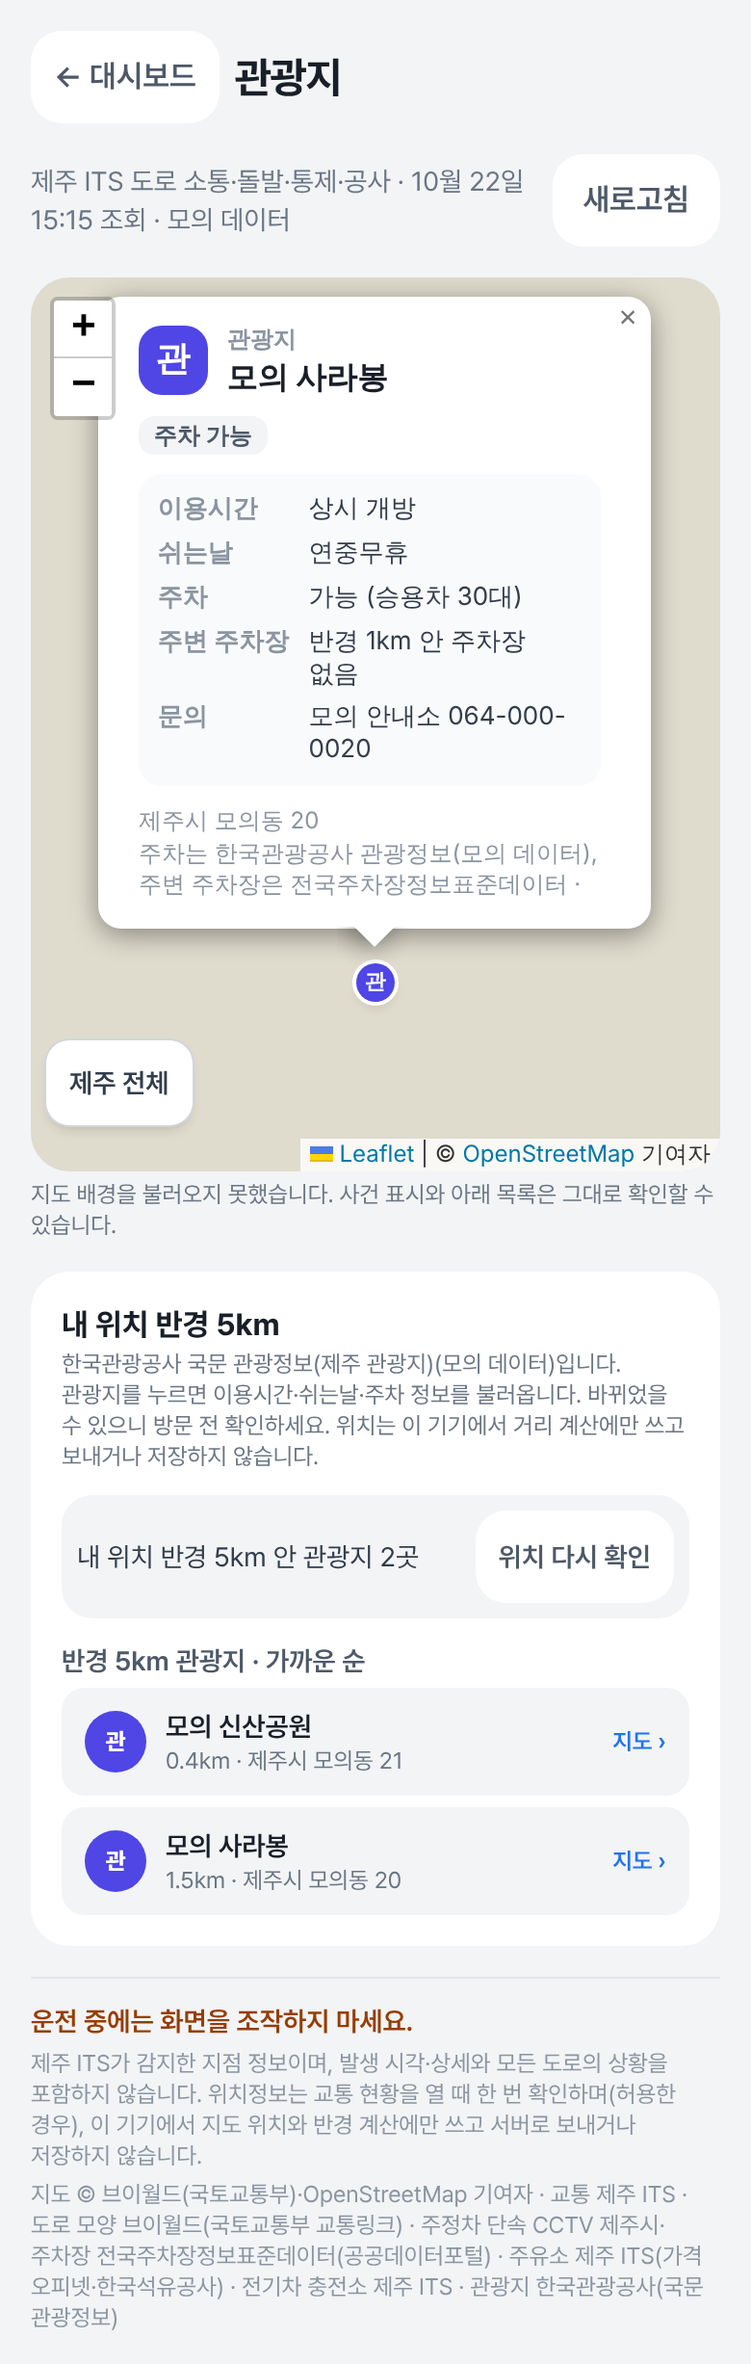
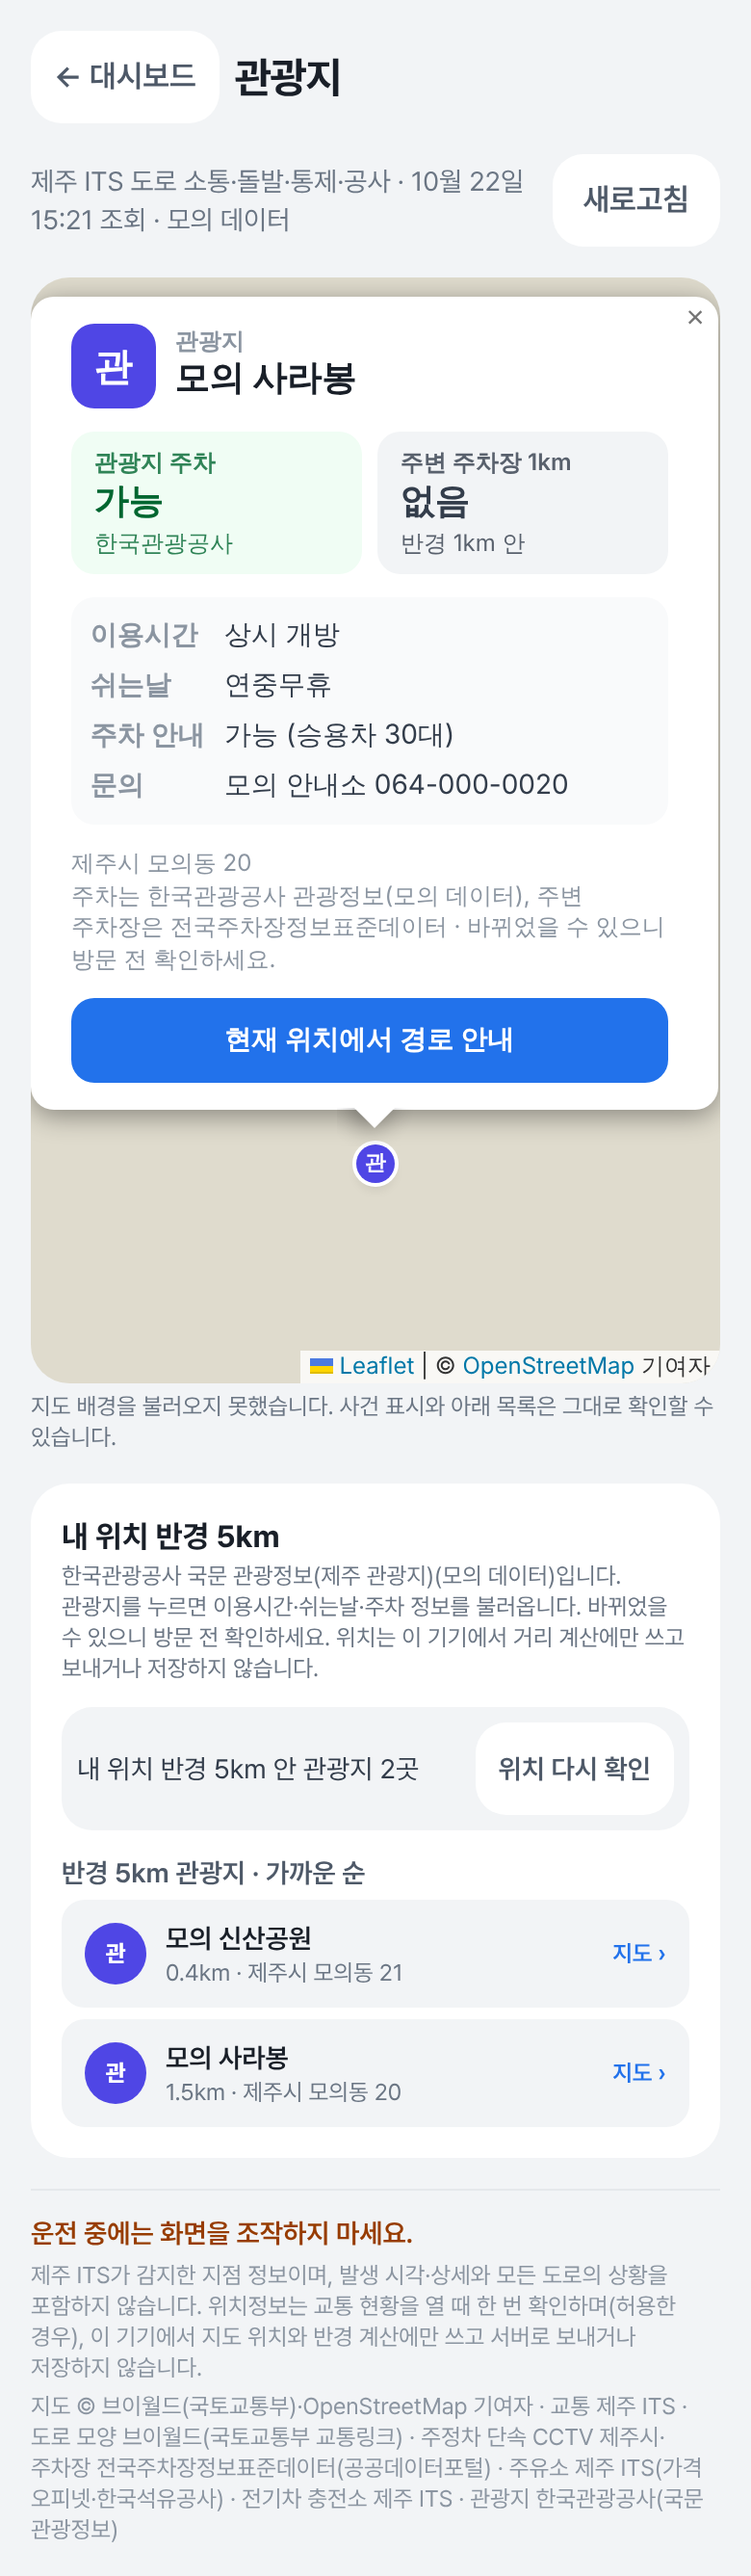
TASK-026: 관광지 카드를 크게·직관적으로(주차 큰 칸, 넓은 카드, 버튼 감춤, 지도 높이) (범위 변경)
Claude-Session: https://claude.ai/code/session_01Gur3aDTQeZh8Paf8Wfb4kJ

Changed region(s): [[0.0308, 0.0, 0.9846, 0.991]]

diff --git a/jeju-ai-traffic/web/src/features/traffic/TrafficDashboard.tsx b/jeju-ai-traffic/web/src/features/traffic/TrafficDashboard.tsx
@@ -276,7 +276,7 @@ const EMPTY_IDS: string[] = [];
 const NO_INCIDENTS: TrafficIncident[] = [];
 
 type TourRow = TrafficTourResponse["spots"][number];
-const TOUR_PARKING_CHIP = { YES: "주차 가능", NO: "주차 불가", UNKNOWN: "주차 정보 없음" } as const;
+const TOUR_PARKING_TILE = { YES: ["가능", "good"], NO: ["불가", "bad"], UNKNOWN: ["정보 없음", "neutral"] } as const;
 
 /**
  * 관광지 카드(TASK-026): 머리(관·이름), 대표 사진·출처, 주차 칩, 이용시간·쉬는날·주차(원문)·문의, 주소·자료 안내, 경로 안내.
@@ -302,36 +302,34 @@ function tourCard(s: TourRow, detail: TrafficTourDetailResponse | null, lots: To
   const lines = (v: string) => (v ? v.split("\n") : ["정보 없음"]);
   // 관광공사 주차 정보와 함께, 관광지 반경 1km 주차장(전국주차장정보표준데이터)을 보인다.
   const around = Array.isArray(lots) ? parkingAround(lat, lng, lots) : null;
+  const free = around ? around.filter((p) => parkingFeeKind(p.lot[7]) === "FREE").length : 0;
   const meters = (m: number) => (m < 1000 ? `${Math.round(m / 10) * 10}m` : `${(m / 1000).toFixed(1)}km`);
-  const aroundRow = {
-    label: "주변 주차장",
-    lines:
-      lots === "loading"
-        ? ["주차장 정보 불러오는 중…"]
-        : lots === "failed" || !around
-          ? ["주차장 정보를 불러오지 못했습니다."]
-          : around.length === 0
-            ? ["반경 1km 안 주차장 없음"]
-            : [
-                `반경 1km ${around.length.toLocaleString("ko-KR")}곳 · 무료 ${around.filter((p) => parkingFeeKind(p.lot[7]) === "FREE").length.toLocaleString("ko-KR")}곳`,
-                ...around.slice(0, TOUR_PARKING_SHOW).map(({ lot, meters: m }) => `${lot[1] || "이름 없는 주차장"} · ${meters(m)} · ${PARKING_FEE_STYLE[parkingFeeKind(lot[7])].label || "요금 정보 없음"}`),
-              ],
-  };
+  const parking = detail ? TOUR_PARKING_TILE[tourParking(detail.parking)] : null;
+  // 한눈에: 관광지 주차(관광공사)·주변 주차장 수(반경 1km) 큰 칸 두 개(TASK-026 점검 "더 크게 직관적으로").
+  const tiles: NonNullable<PopupCard["tiles"]> = [
+    { label: "관광지 주차", value: parking?.[0] ?? (failed ? "–" : "확인 중…"), sub: "한국관광공사", tone: parking?.[1] ?? "neutral" },
+    around
+      ? { label: "주변 주차장 1km", value: around.length ? `${around.length.toLocaleString("ko-KR")}곳` : "없음", sub: around.length ? `무료 ${free.toLocaleString("ko-KR")}곳` : "반경 1km 안", tone: around.length ? "good" : "neutral" }
+      : { label: "주변 주차장 1km", value: lots === "failed" ? "–" : "확인 중…", sub: lots === "failed" ? "불러오지 못했습니다" : undefined, tone: "neutral" },
+  ];
+  const aroundRows = around?.length ? [{ label: "가까운 주차장", lines: around.slice(0, TOUR_PARKING_SHOW).map(({ lot, meters: m }) => `${lot[1] || "이름 없는 주차장"} · ${meters(m)} · ${PARKING_FEE_STYLE[parkingFeeKind(lot[7])].label || "요금 정보 없음"}`) }] : [];
   return {
+    size: "lg",
     badge: { text: FACILITY_STYLE.TOUR.mark, color: FACILITY_STYLE.TOUR.markBg ?? FACILITY_STYLE.TOUR.color },
     kicker: "관광지",
     title: name,
     image: image ? { src: image, alt: name, credit: "사진 한국관광공사" } : undefined,
-    chips: [detail ? TOUR_PARKING_CHIP[tourParking(detail.parking)] : "", around?.length ? `주변 주차장 ${around.length.toLocaleString("ko-KR")}곳` : ""].filter(Boolean),
+    tiles,
+    chips: [],
     rows: detail
       ? [
           { label: "이용시간", lines: lines(detail.usetime) },
           { label: "쉬는날", lines: lines(detail.restdate) },
-          { label: "주차", lines: lines(detail.parking) },
-          aroundRow,
+          { label: "주차 안내", lines: lines(detail.parking) },
+          ...aroundRows,
           ...(detail.infocenter ? [{ label: "문의", lines: lines(detail.infocenter) }] : []),
         ]
-      : [{ label: "안내", lines: [failed ? "이용시간·주차 정보를 불러오지 못했습니다. 다시 눌러 보세요." : "이용시간·주차 정보 불러오는 중…"] }, aroundRow],
+      : [{ label: "안내", lines: [failed ? "이용시간·주차 정보를 불러오지 못했습니다. 다시 눌러 보세요." : "이용시간·주차 정보 불러오는 중…"] }, ...aroundRows],
     footer: [address, `주차는 한국관광공사 관광정보${detail?.source === "mock" ? "(모의 데이터)" : ""}, 주변 주차장은 전국주차장정보표준데이터 · 바뀌었을 수 있으니 방문 전 확인하세요.`].filter(Boolean).join("\n"),
     action: { href: parkingRouteHref({ id, name, address, lat, lng }), label: "현재 위치에서 경로 안내" },
   };
@@ -1164,7 +1162,7 @@ export function TrafficDashboard({ view, onNavigate }: { view: TrafficView; onNa
             viewKey={kind}
             speedLines={showSpeeds ? filteredLines : EMPTY_LINES}
             speedObservedAt={speeds?.observedAt ?? null}
-            heightClass="h-[55vh] md:h-[60vh] xl:h-[calc(100dvh-7rem)]"
+            heightClass={view === "TOUR" ? "h-[68vh] md:h-[65vh] xl:h-[calc(100dvh-7rem)]" : "h-[55vh] md:h-[60vh] xl:h-[calc(100dvh-7rem)]"}
             overlay={mapOverlay}
             facilities={facilityPoints}
             nearby={nearbyOn.length > 0 && myLocation ? { ...myLocation, radiusMeters: nearbyMaxRadius } : null}

diff --git a/jeju-ai-traffic/web/src/features/map/leafletMap.ts b/jeju-ai-traffic/web/src/features/map/leafletMap.ts
@@ -150,6 +150,10 @@ export interface PopupCard {
   action?: { href: string; label: string; external?: boolean };
   /** 제목 아래 사진 한 장과 출처(관광지, TASK-026). https 주소만 그린다. */
   image?: { src: string; alt: string; credit: string };
+  /** 한눈에 볼 큰 칸(관광지 주차·주변 주차장·쉬는날, TASK-026 점검). tone은 색(좋음 초록·나쁨 빨강·보통 회색). */
+  tiles?: { label: string; value: string; sub?: string; tone: "good" | "bad" | "neutral" }[];
+  /** lg면 넓고 글자가 큰 카드(관광지). */
+  size?: "lg";
 }
 
 export function popupCard(card: PopupCard): HTMLElement {
@@ -159,7 +163,7 @@ export function popupCard(card: PopupCard): HTMLElement {
     if (text !== undefined) e.textContent = text;
     return e;
   };
-  const root = el("div", "popup-card");
+  const root = el("div", card.size === "lg" ? "popup-card popup-card-lg" : "popup-card");
   const head = el("div", "popup-card-head");
   const badge = el("span", "popup-card-badge", card.badge.text);
   badge.style.backgroundColor = card.badge.color;
@@ -178,6 +182,16 @@ export function popupCard(card: PopupCard): HTMLElement {
     img.referrerPolicy = "no-referrer";
     fig.append(img, el("figcaption", "", card.image.credit));
     root.append(fig);
+  }
+  if (card.tiles?.length) {
+    const grid = el("div", "popup-card-tiles");
+    for (const t of card.tiles) {
+      const tile = el("div", `popup-card-tile tone-${t.tone}`);
+      tile.append(el("span", "popup-card-tile-label", t.label), el("strong", "popup-card-tile-value", t.value));
+      if (t.sub) tile.append(el("span", "popup-card-tile-sub", t.sub));
+      grid.append(tile);
+    }
+    root.append(grid);
   }
   if (card.chips.length || card.stat) {
     const meta = el("div", "popup-card-meta");
@@ -400,8 +414,18 @@ export function addFacilityMarkers(map: L.Map, layer: L.LayerGroup, points: Faci
       // 주유소: 반경 안 수십 곳이라 DOM 표시로 그린다. 글자는 고정 상표 표시와 숫자뿐(원천 이름은 카드에서만 textContent로).
       const m = L.marker([p.lat, p.lng], { icon: gasPinIcon(p.pin), keyboard: false, title: p.name, zIndexOffset: p.pin.low ? 1000 : p.pin.top ? 500 : 0 })
         // 불러와 길어지는 카드(관광지)는 휴대폰 지도 높이에 맞춰 높이를 제한하고 안에서 넘긴다(TASK-026 점검: 위가 잘림).
-        .bindPopup(() => popupCard(p.card ?? facilityCard(p)), { offset: p.pin.dot ? [0, -8] : [0, -30], maxHeight: p.loadCard ? 300 : undefined })
+        .bindPopup(() => popupCard(p.card ?? facilityCard(p)), {
+          offset: p.pin.dot ? [0, -8] : [0, -30],
+          // 큰 카드(관광지)는 지도 폭·높이에 맞춰 넓고 길게(넘치면 안에서 넘김)
+          maxWidth: p.card?.size === "lg" ? 360 : undefined,
+          maxHeight: p.loadCard ? Math.max(260, map.getSize().y - 100) : undefined,
+        })
         .addTo(layer);
+      if (p.card?.size === "lg") {
+        // 큰 카드가 열려 있는 동안은 지도 위 버튼(확대·제주 전체)을 감춰 카드를 가리지 않게 한다.
+        m.on("popupopen", () => map.getContainer().classList.add("popup-lg-open"));
+        m.on("popupclose", () => map.getContainer().classList.remove("popup-lg-open"));
+      }
       const load = p.loadCard;
       if (load) {
         m.on("popupopen", () =>

diff --git a/jeju-ai-traffic/tests/unit/TrafficDashboard.test.tsx b/jeju-ai-traffic/tests/unit/TrafficDashboard.test.tsx
@@ -666,11 +666,14 @@ describe("내 주변 페이지 (TASK-016~024 → TASK-025 /map/enforcement·park
     expect(map().getAttribute("data-facilities")).toBe("2");
     fireEvent.click(rows[1]!);
     await waitFor(() => expect(tourDetailCalls).toBe(1));
-    expect(await screen.findByText("주차 가능")).toBeTruthy();
+    const tiles = () => [...document.querySelectorAll(".popup-card-tile")].map((t) => t.textContent);
+    await waitFor(() => expect(tiles()[0]).toBe("관광지 주차가능한국관광공사"));
+    expect(document.querySelector(".popup-card-lg")).toBeTruthy();
+    expect(document.querySelector(".popup-card-tile.tone-good")).toBeTruthy();
     expect(screen.getByText("상시 개방")).toBeTruthy();
     expect(screen.getByText("가능 (승용차 30대)")).toBeTruthy();
     // 관광공사 주차 정보와 함께 관광지(사라봉) 기준 반경 1km 주차장(P1 시청 공영주차장 약 1.6km는 밖 → 없음)
-    expect(screen.getByText("반경 1km 안 주차장 없음")).toBeTruthy();
+    expect(tiles()[1]).toBe("주변 주차장 1km없음반경 1km 안");
     const img = document.querySelector(".popup-card-photo img") as HTMLImageElement;
     expect(img.src).toBe("https://tong.visitkorea.or.kr/cms/resource/1/a_image2_1.jpg");
     expect(screen.getByText("사진 한국관광공사")).toBeTruthy();
@@ -693,10 +696,9 @@ describe("내 주변 페이지 (TASK-016~024 → TASK-025 /map/enforcement·park
     openAt("/map/tour");
     const rows = within(await screen.findByRole("list", { name: "관광지 목록" })).getAllByRole("button");
     fireEvent.click(rows[0]!); // 신산공원
-    expect(await screen.findByText("주변 주차장 4곳")).toBeTruthy();
-    expect(screen.getByText("반경 1km 4곳 · 무료 1곳")).toBeTruthy();
+    await waitFor(() => expect([...document.querySelectorAll(".popup-card-tile")].map((t) => t.textContent)).toEqual(["관광지 주차가능한국관광공사", "주변 주차장 1km4곳무료 1곳"]));
     const lines = [...document.querySelectorAll(".popup-card-rows dd")].map((dd) => dd.textContent);
-    expect(lines.some((t) => t?.startsWith("반경 1km 4곳 · 무료 1곳신산 공영주차장 · 60m · 무료가까운 혼합 주차장 · 150m · 일부유료일도 주차장 · 220m · 유료"))).toBe(true);
+    expect(lines).toContain("신산 공영주차장 · 60m · 무료가까운 혼합 주차장 · 150m · 일부유료일도 주차장 · 220m · 유료");
     expect(screen.queryByText(/먼 주차장/)).toBeNull();
   });
 

diff --git a/jeju-ai-traffic/web/src/index.css b/jeju-ai-traffic/web/src/index.css
@@ -95,6 +95,55 @@ body {
 .leaflet-popup-content a.popup-card-action {
   color: #fff;
 }
+/* 큰 카드가 열려 있으면 지도 위 버튼을 감춘다(카드를 가리지 않게) */
+.popup-lg-open .leaflet-control-zoom,
+.popup-lg-open ~ .map-home-btn {
+  visibility: hidden;
+}
+/* 큰 카드(관광지, TASK-026 점검): 지도 폭에 맞춰 넓게, 글자 크게, 한눈에 볼 큰 칸 */
+.leaflet-popup-content .popup-card-lg {
+  width: min(20rem, calc(100vw - 5rem));
+  @apply gap-3;
+}
+.leaflet-popup-content .popup-card-lg .popup-card-title {
+  @apply text-lg;
+}
+.leaflet-popup-content .popup-card-lg .popup-card-badge {
+  @apply h-11 w-11 text-xl;
+}
+.leaflet-popup-content .popup-card-lg .popup-card-rows {
+  @apply text-sm;
+}
+.leaflet-popup-content .popup-card-lg .popup-card-photo img {
+  @apply h-40;
+}
+.leaflet-popup-content .popup-card-tiles {
+  @apply grid grid-cols-2 gap-2;
+}
+.leaflet-popup-content .popup-card-tile {
+  @apply flex flex-col gap-0.5 rounded-xl px-3 py-2;
+}
+.leaflet-popup-content .popup-card-tile:first-child:nth-last-child(odd) {
+  @apply col-span-2;
+}
+.leaflet-popup-content .popup-card-tile-label {
+  @apply text-xs font-semibold opacity-80;
+}
+.leaflet-popup-content .popup-card-tile-value {
+  @apply text-lg leading-tight font-bold;
+}
+.leaflet-popup-content .popup-card-tile-sub {
+  @apply text-xs opacity-80;
+}
+.leaflet-popup-content .popup-card-tile.tone-good {
+  @apply bg-green-50 text-green-800;
+}
+.leaflet-popup-content .popup-card-tile.tone-bad {
+  @apply bg-red-50 text-red-800;
+}
+.leaflet-popup-content .popup-card-tile.tone-neutral {
+  @apply bg-grey-100 text-grey-800;
+}
 .leaflet-popup-content .popup-card-photo {
   @apply m-0 flex flex-col gap-0.5;
 }

diff --git a/jeju-ai-traffic/web/src/features/traffic/IncidentMap.tsx b/jeju-ai-traffic/web/src/features/traffic/IncidentMap.tsx
@@ -177,7 +177,7 @@ export function IncidentMap({ incidents, focus, viewKey, speedLines = [], speedO
           <button
             type="button"
             onClick={() => mapRef.current?.fitBounds(JEJU_BOUNDS)}
-            className="absolute bottom-6 left-2 z-[500] min-h-11 rounded-xl bg-white px-3 text-sm font-semibold text-grey-800 shadow-md ring-1 ring-grey-300"
+            className="map-home-btn absolute bottom-6 left-2 z-[500] min-h-11 rounded-xl bg-white px-3 text-sm font-semibold text-grey-800 shadow-md ring-1 ring-grey-300"
           >
             제주 전체
           </button>

diff --git a/jeju-ai-traffic/reports/TASK-026-RESULT.md b/jeju-ai-traffic/reports/TASK-026-RESULT.md
@@ -4,6 +4,7 @@
 - 승인 근거: 사용자 "계획 승인: TASK-026 1. (a) 2. (a) 3. (a) 4. 승인 신청 완료" (2026-10-22, `DECISIONS.md`)
 - 범위 변경: Preview 빌드 실패(Vercel Hobby 함수 12개 한도) → 사용자 "범위 변경: TASK-026 함수 통합 (a)" (2026-10-22)
 - 범위 변경: 사용자 "주차정보를 관광공사 API 결과 + 해당 관광지 기준 반경 1키로 주차장 정보 포함해서 출력" (2026-10-22)
+- 범위 변경: 사용자 "관광지 정보 팝업은 좀 더 크게 직관적으로 보일 수 있게 수정해줘" (2026-10-22)
 - 상태: **결과 검토** (완료 승인 대기, `main` 미반영)
 
 ## 1. 변경 파일
@@ -34,6 +35,7 @@
 - **관광지 페이지** `/map/tour`: 반경 5km 관광지를 "관" 동그라미로(확대 17 이상이면 이름), 가까운 순 목록 10곳씩.
 - **카드**(점이나 목록을 누르면): 대표 사진·"사진 한국관광공사", 주차 칩(주차 가능/불가/정보 없음), 이용시간·쉬는날·주차(원문)·문의, 주소, "바뀌었을 수 있으니 방문 전 확인", "현재 위치에서 경로 안내". 상세는 누를 때만 불러오며 그동안 "불러오는 중…".
 - **주변 주차장(범위 변경)**: 카드에 관광공사 주차 정보(칩·원문)와 함께 "주변 주차장" 줄. 관광지 기준 반경 1km 주차장(전국주차장정보표준데이터, 화면을 열 때 이미 받는 자료) 수·무료 수, 가까운 3곳의 이름·거리·요금 구분(무료/유료/일부유료). 칩 "주변 주차장 N곳". 없으면 "반경 1km 안 주차장 없음". 외부 호출 추가 없음.
+- **큰 카드(범위 변경)**: 관광지 카드는 지도 폭에 맞춰 넓게(최대 20rem)·글자 크게. 맨 위 큰 칸 2개 — "관광지 주차 가능/불가/정보 없음"(초록·빨강·회색, 한국관광공사)과 "주변 주차장 1km N곳 · 무료 N곳". 그 아래 이용시간·쉬는날·주차 안내(원문)·가까운 주차장 3곳·문의. 사진 크게. 카드가 열려 있으면 확대·"제주 전체" 버튼을 감추고, 관광지 페이지는 휴대폰 지도 높이를 68%로.
 - **주차 판단**: "불가·없음" → 불가, "가능·있음·N대·주차장" → 가능, 그 밖·빈 값 → 정보 없음(원문은 그대로 보임).
 - **호출량**: 목록은 하루 한 번(194곳 1건), 상세는 관광지마다 30일에 한 번. 하루 수십 건 수준.
 

diff --git a/jeju-ai-traffic/DECISIONS.md b/jeju-ai-traffic/DECISIONS.md
@@ -270,3 +270,4 @@
 | 2026-10-22 | TASK-026 | 시험 호출 결과 | (사용자가 Preview에서 /api/tour-probe 결과 전달) | 진행 중 | 4건(승인 5건): 제주 관광지 194곳, 사진 191곳, 목록 전화 0곳, 좌표 1곳 오타(경도 12.79), 소개정보 usetime·restdate·parking·infocenter 확인. 시험 함수 삭제 |
 | 2026-10-22 | TASK-026 | 결과 보고 | (구현 완료) | 진행 중 → 결과 검토 | 대시보드 관광지 카드, /map/tour 반경 5km·가까운 순, 누르면 이용시간·쉬는날·주차·문의를 불러오는 카드(사진·출처), 서버 목록 하루·CDN 7일·상세 30일, 내부 한도 kto 800. `reports/TASK-026-RESULT.md`. main 미반영 |
 | 2026-10-22 | TASK-026 | 범위 변경 | "주차정보를 관광공사 API 결과 + 해당 관광지 기준 반경 1키로 주차장 정보 포함해서 출력" | 결과 검토 유지 | 관광지 카드에 관광공사 주차 정보와 함께 관광지 기준 반경 1km 주차장(전국주차장정보표준데이터, 이미 받는 자료): 수·무료 수, 가까운 3곳 이름·거리·요금 구분, "주변 주차장 N곳" 칩. 외부 호출 추가 없음 |
+| 2026-10-22 | TASK-026 | 범위 변경 | "관광지 정보 팝업은 좀 더 크게 직관적으로 보일 수 있게 수정해줘" | 결과 검토 유지 | 관광지 카드를 넓고 큰 글자로(지도 폭 맞춤, 최대 20rem), 맨 위 큰 칸 2개(관광지 주차 가능·불가 색, 주변 주차장 1km 수·무료 수), 사진 크게, 카드가 열려 있으면 확대·제주 전체 버튼 감춤, 관광지 페이지 지도 높이 68vh(휴대폰) |
